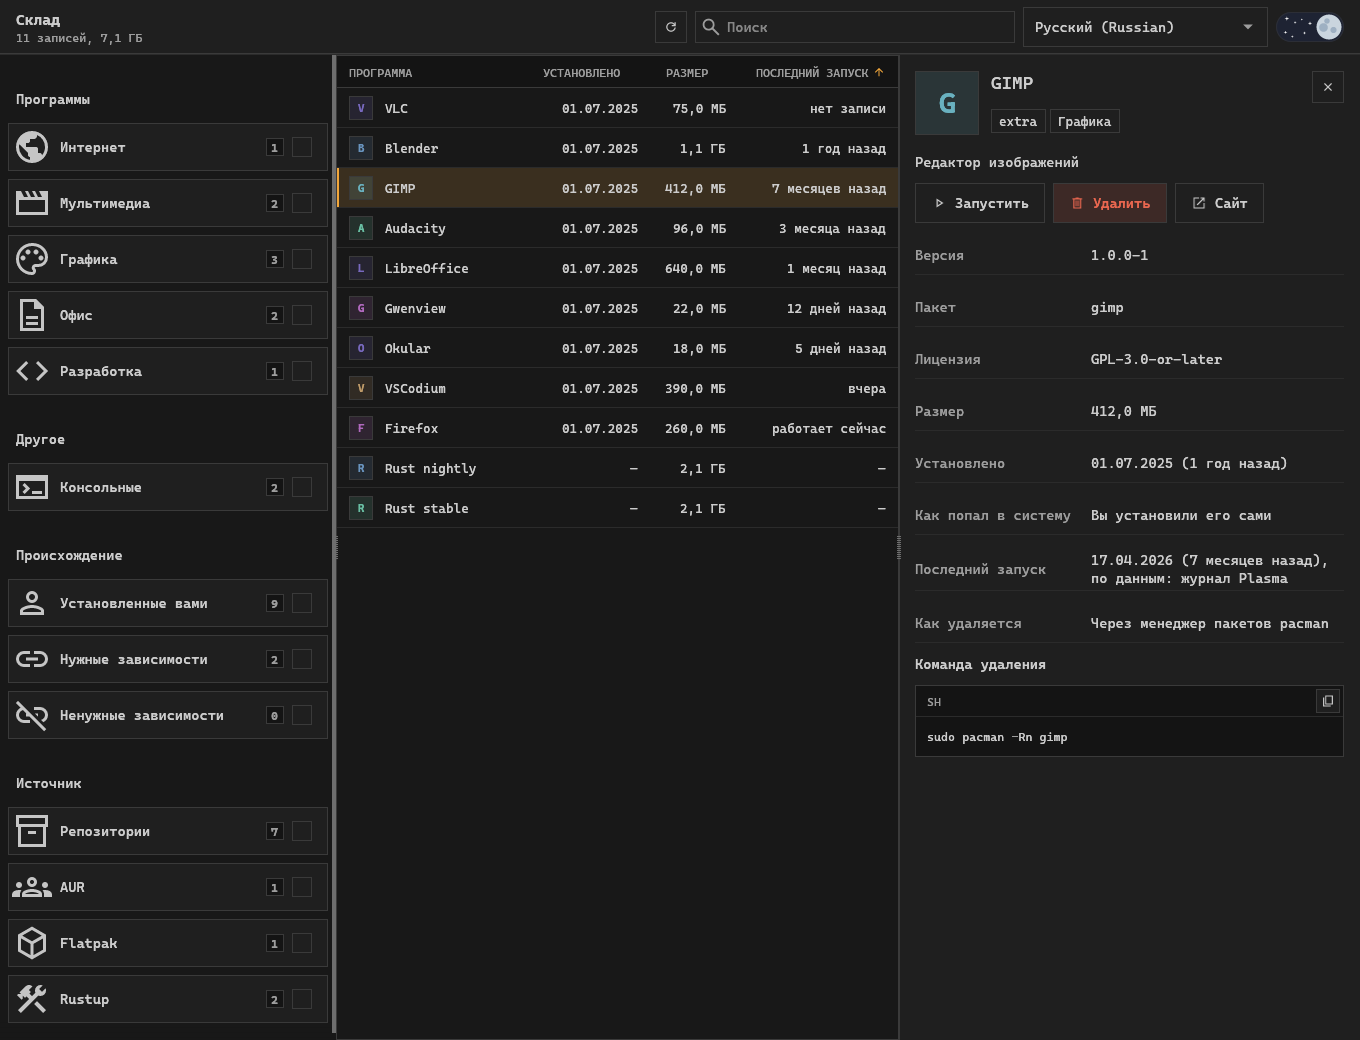
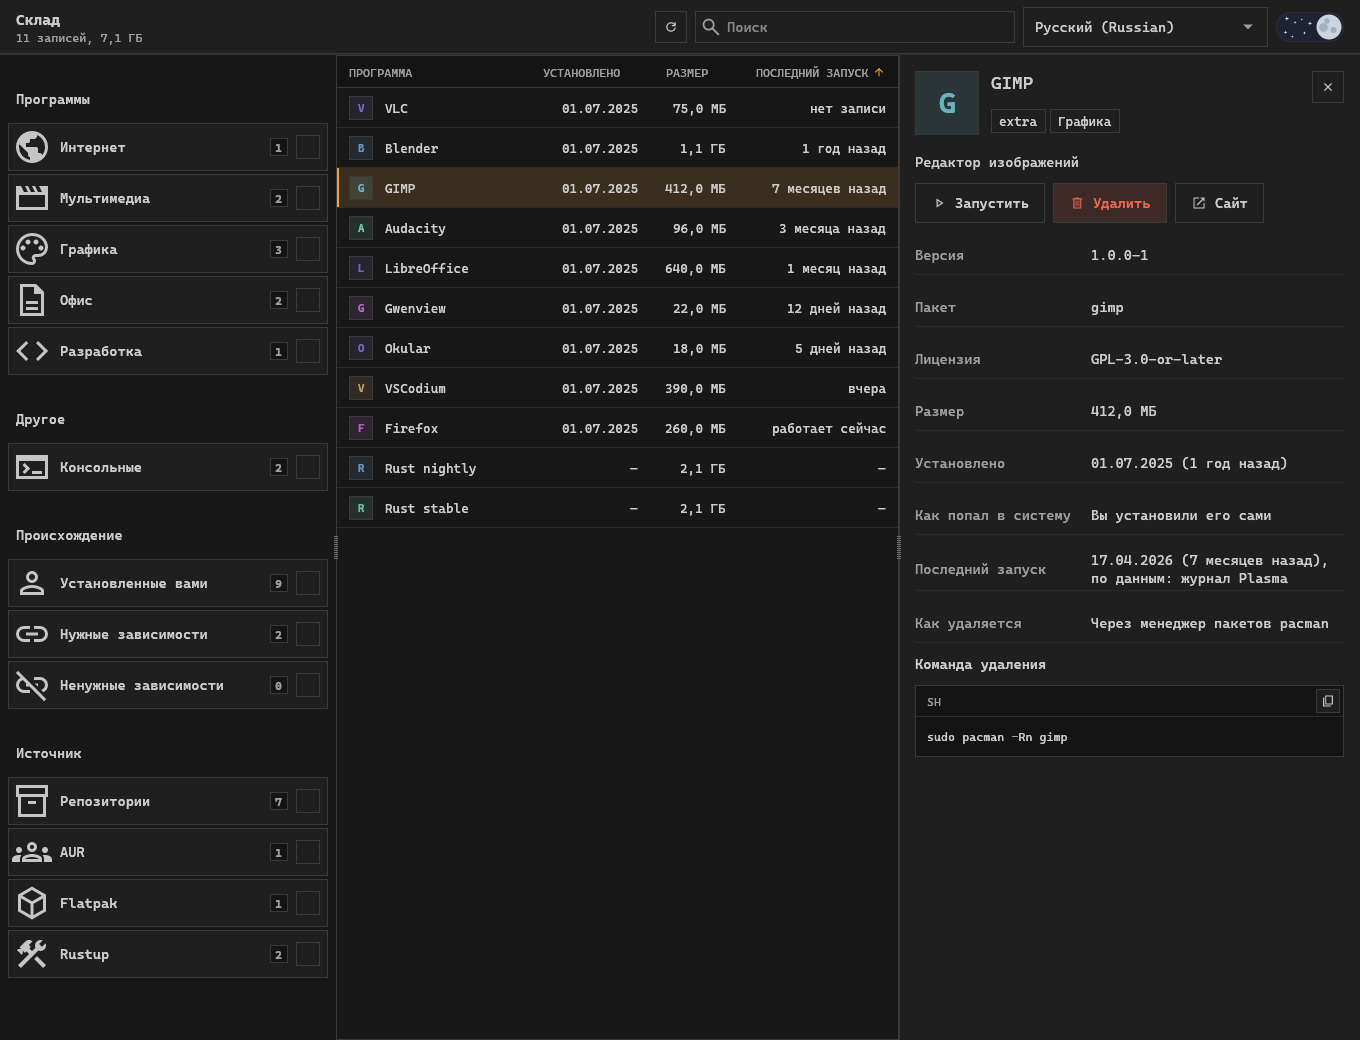
fix(ui): CheckboxGroup follows the tighter geometry of the design system
Tiles are 0.75 DU apart with 2 DU padding, and the indicator box is 6 DU with a 4 DU check.

Changed region(s): [[0.0, 0.4, 0.2471, 0.9846], [0.0, 0.1231, 0.2471, 0.4923]]

diff --git a/src/ui/operator/checkbox_group.rs b/src/ui/operator/checkbox_group.rs
@@ -43,7 +43,10 @@ pub struct GroupItem<'a> {
     pub selected: bool,
 }
 
-/// The tiles, `gutter` apart, full width.
+/// The gap between tiles, in DU.
+const TILE_GAP: f32 = 0.75;
+
+/// The tiles, `0.75 DU` apart, full width.
 pub struct CheckboxGroup<'a> {
     pub id: Id,
     pub items: &'a [GroupItem<'a>],
@@ -58,7 +61,7 @@ impl CheckboxGroup<'_> {
         let mut clicked = None;
         for (index, item) in self.items.iter().enumerate() {
             if index > 0 {
-                ui.add_space(du(dim::GUTTER));
+                ui.add_space(du(TILE_GAP));
             }
             if self.tile(ui, index, item, palette) {
                 clicked = Some(index);
@@ -88,7 +91,7 @@ impl CheckboxGroup<'_> {
             paint_ripple(ui, &response, rect, true, palette);
 
             let large = self.icon_size == IconSize::Large && item.icon.is_some();
-            let pad = if large { dim::PAD_TIGHT } else { dim::MARGIN_SCREEN };
+            let pad = if large { dim::PAD_TIGHT } else { dim::GUTTER };
             let mut left = rect.left() + du(pad);
             let ink = if selected {
                 palette.accent
@@ -102,14 +105,20 @@ impl CheckboxGroup<'_> {
                 left += side + du(dim::GUTTER);
             }
 
-            let side = du(5.0);
-            let mut right = rect.right() - du(dim::MARGIN_SCREEN);
+            let side = du(dim::ICON_LARGE);
+            let mut right = rect.right() - du(dim::GUTTER);
             let boxed =
                 Rect::from_min_size(pos2(right - side, rect.center().y - side / 2.0), vec2(side, side));
             if selected {
                 ui.painter()
                     .rect_filled(boxed, 0.0, mix(palette.surface, palette.accent, 0.15));
-                paint_icon(ui, super::icon::CHECK, boxed.center(), du(3.0), palette.accent);
+                paint_icon(
+                    ui,
+                    super::icon::CHECK,
+                    boxed.center(),
+                    du(dim::ICON_SMALL),
+                    palette.accent,
+                );
             }
             let box_state = if selected {
                 ControlState::Selected
